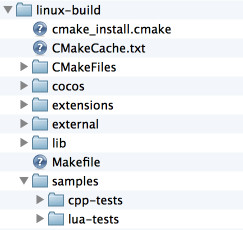
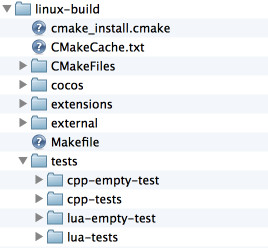
update how to run cpp-tests on Linux

Changed region(s): [[0.0, 0.0, 0.7202, 1.0]]

diff --git a/manual/framework/native/getting-started/v3.0/how to run cpp-tests on Linux/en.md b/manual/framework/native/getting-started/v3.0/how to run cpp-tests on Linux/en.md
@@ -6,7 +6,7 @@
 	* [Install Dependences](#anchor4)
 	* [Generate MakeFile](#anchor5)
 	* [Compiling](#anchor6)
-	* [Run Sample](#anchor7)
+	* [Run cpp-tests](#anchor7)
 
 ## [Overview](id:anchor1)##
 The document will show you how to compile & run `cpp-tests` on Linux.  
@@ -19,58 +19,54 @@ The document is suitable for version v3.0rc or newer.
 
 * **[Install Dependences](id:anchor4)**
 
-The dependenced libraries are:
+	The dependenced libraries are:
 
-```
-libx11-dev
-libxmu-dev
-libglu1-mesa-dev
-libgl2ps-dev
-libxi-dev
-g++
-libzip-dev
-libpng12-dev
-libcurl4-gnutls-dev
-libfontconfig1-dev
-libsqlite3-dev
-libglew*-dev
-libssl-dev
-```
-If you are using Ubuntu/Debian, there is a shell script **_(build/install-deps-linux.sh)_** for you to install the dependences easily. Run commands below in terminal:  
+		libx11-dev
+		libxmu-dev
+		libglu1-mesa-dev
+		libgl2ps-dev
+		libxi-dev
+		g++
+		libzip-dev
+		libpng12-dev
+		libcurl4-gnutls-dev
+		libfontconfig1-dev
+		libsqlite3-dev
+		libglew*-dev
+		libssl-dev
 
-    $ cd $cocos2dx_root/build
-    $ ./install-deps-linux.sh
+	If you are using Ubuntu/Debian, there is a shell script **_(build/install-deps-linux.sh)_** for you to install the dependences easily. Run commands below in terminal:  
 
-Otherwise, you should install the depences by yourself.
+    	$ cd $cocos2dx_root/build
+    	$ ./install-deps-linux.sh
+
+	Otherwise, you should install the depences by yourself.
 
 * **[Generate makefile](id:anchor5)**
 
-After the dependened libs are installed, run `cmake` to generate `makefile`:
+	After the dependened libs are installed, run `cmake` to generate `makefile`:
 
-    $ mkdir linux-build
-    $ cd linux-build
-    $ cmake ../..
+    	$ mkdir linux-build
+    	$ cd linux-build
+    	$ cmake ../..
 
-When `cmake` returns correctly, many files & folders will be generated in  `coocs2dx_root/build/linux-build`:
+	When `cmake` returns correctly, many files & folders will be generated in  `coocs2dx_root/build/linux-build`:
 	
 	![folderImg](res/folderImg.jpg)
 	
 * **[Compiling](id:anchor6)**
 
-Run `make` to compile
+	Run `make` to compile
 
-    $ make cpp-tests
+    	$ make cpp-tests
 
-Application will be generated in `cocos2dx_root/build/linux-build/bin/cpp-tests/` if compile correctly.
+	Application will be generated in `cocos2dx_root/build/linux-build/bin/cpp-tests/` if compile correctly.
 
-* **[Run Sample](id:anchor7)**
+* **[Run cpp-tests](id:anchor7)**
 
-```
-   $ cd bin/cpp-tests/
-   $ ./testcpp
-```
-    
+		$ cd bin/cpp-tests/
+		$ ./cpp-tests
 	
-You will see the application is running like this:
-![runningScene](res/runningScene.jpg)
+	You will see the application is running like this:
+	![runningScene](res/runningScene.jpg)
 
